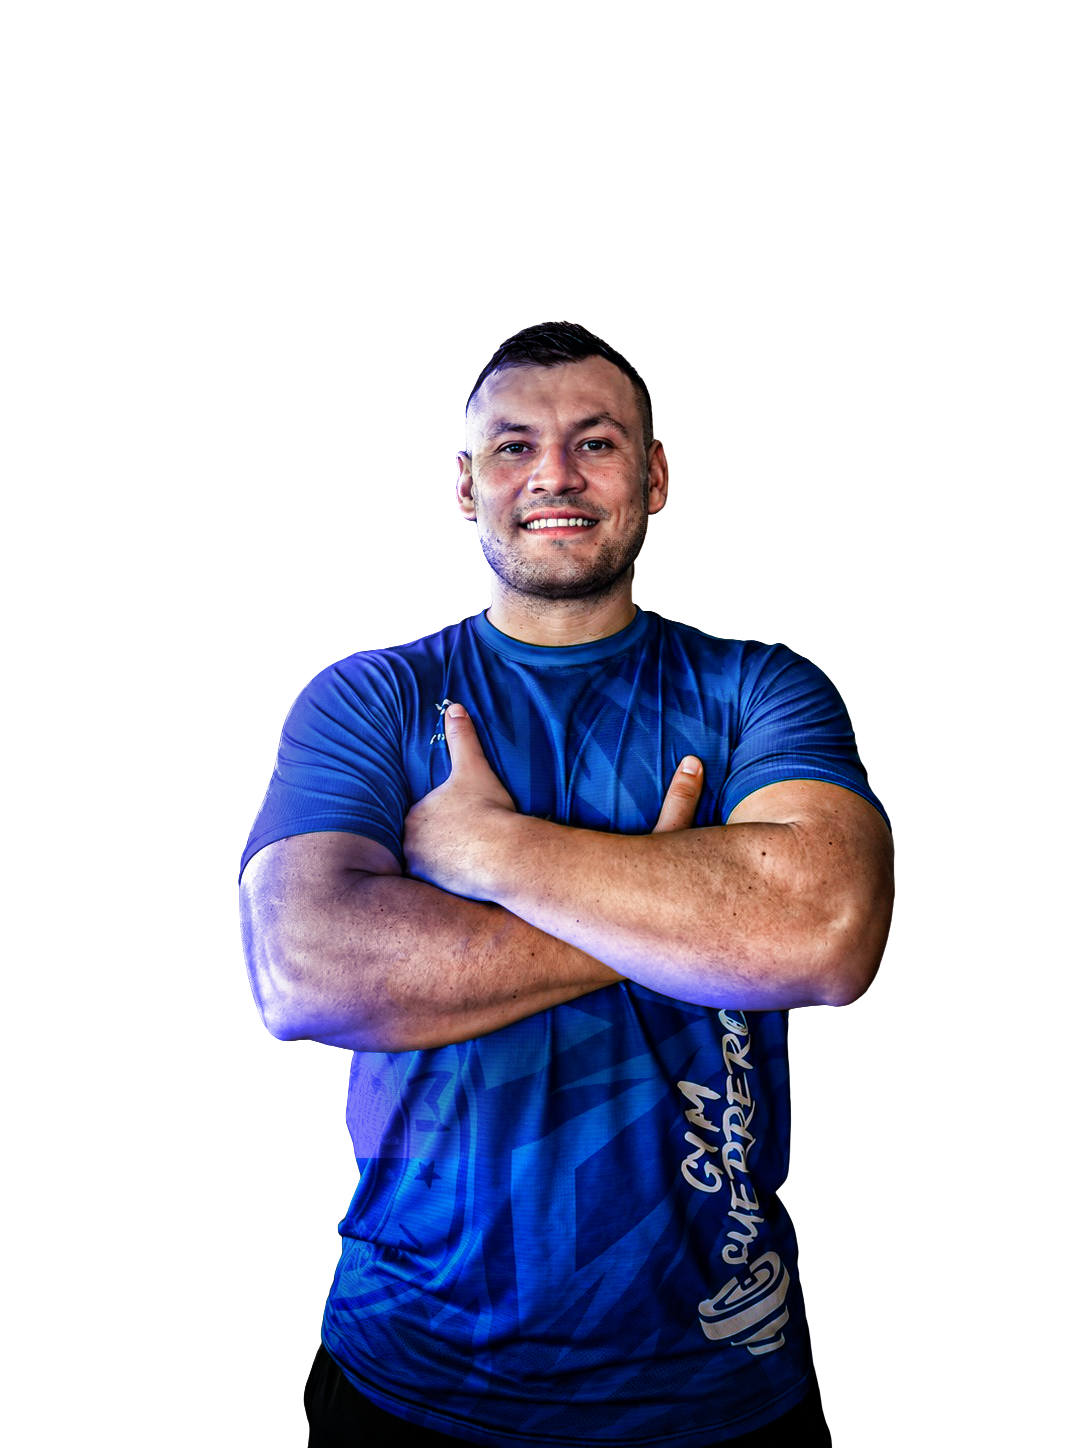
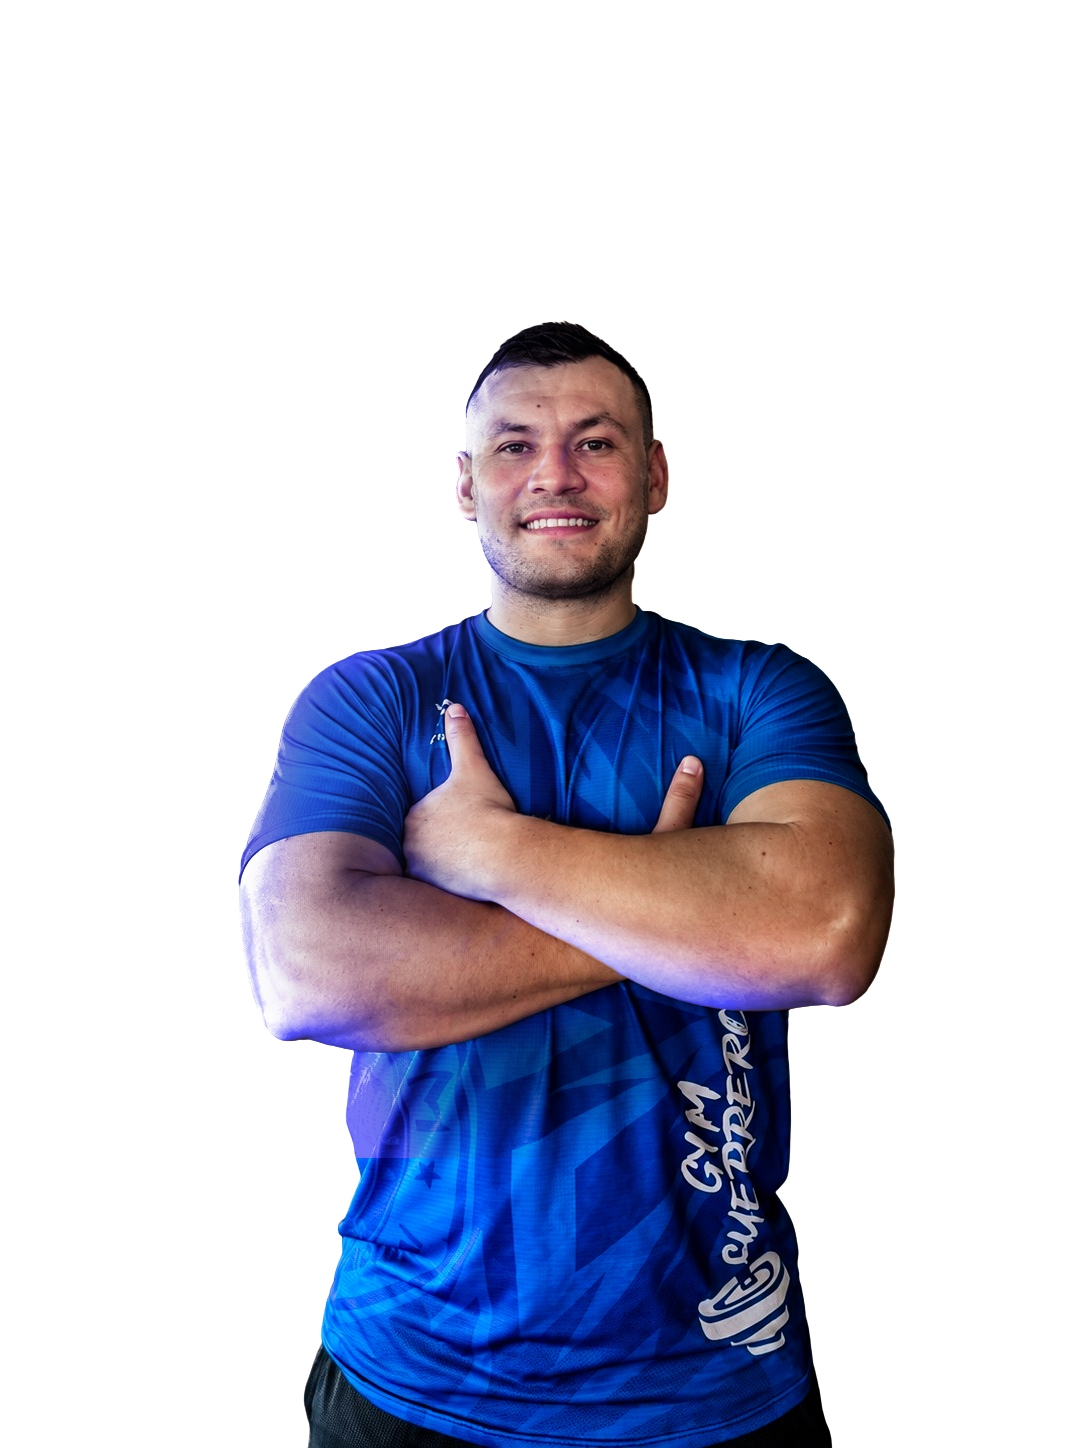
Fix Cesar pic

diff --git a/src/components/Hero.css b/src/components/Hero.css
@@ -1,4 +1,4 @@
-.hero-section {
+.hero-section {
   position: relative;
   min-height: 100vh;
   display: flex;
@@ -154,30 +154,31 @@
 
 .hero-image-placeholder {
   position: absolute;
-  bottom: -60px;
-  right: 15%; /* Alineado hacia la derecha */
-  width: 140%; /* Suficientemente grande para llenar el lado derecho */
+  bottom: -48px; /* Punto medio óptimo: lo mantiene más alto que el original (-60px) pero sin chocar con el header */
+  right: -2%; /* Alineación perfecta para dejar los textos de la izquierda completamente libres */
+  width: 148%; /* Reducido de 160% a 148%: más imponente que el original (140%) pero sin saturar el espacio */
   display: flex;
   justify-content: center;
   align-items: flex-end;
   pointer-events: none;
   z-index: 0;
+  transition: all 0.3s ease;
 }
 
 .hero-image {
-  max-height: 100vh;
+  max-height: 110vh; /* Permitimos mayor altura en pantallas altas */
   width: 100%;
   object-fit: cover;
   mix-blend-mode: lighten;
   mask-image:
-    linear-gradient(to top, transparent 2%, black 20%),
-    radial-gradient(circle at center, black 40%, transparent 70%);
+    linear-gradient(to top, transparent 2%, black 15%),
+    radial-gradient(circle at 50% 45%, black 50%, transparent 80%);
   -webkit-mask-image:
-    linear-gradient(to top, transparent 2%, black 20%),
-    radial-gradient(circle at center, black 40%, transparent 70%);
+    linear-gradient(to top, transparent 2%, black 15%),
+    radial-gradient(circle at 50% 45%, black 50%, transparent 80%);
   -webkit-mask-composite: source-in;
   mask-composite: intersect;
-  opacity: 0.9;
+  opacity: 0.95; /* Mayor opacidad para que resalte más en el fondo */
 }
 
 .features-card {
@@ -265,6 +266,30 @@
 }
 
 /* Responsive Design */
+@media (max-width: 1366px) {
+  .hero-title {
+    font-size: 3.8rem; /* Reducimos ligeramente el tamaño del título en laptops comunes para evitar superposición */
+  }
+
+  .hero-image-placeholder {
+    width: 140%; /* Hacemos el atleta un poco más compacto en pantallas medianas */
+    right: -4%; /* Lo mantenemos a una distancia prudente */
+    bottom: -50px;
+  }
+}
+
+@media (max-width: 1200px) {
+  .hero-title {
+    font-size: 3.4rem; /* Adaptamos el título para pantallas más estrechas */
+  }
+
+  .hero-image-placeholder {
+    width: 135%; /* Ajustamos proporcionalmente el atleta */
+    right: -5%;
+    bottom: -50px;
+  }
+}
+
 @media (max-width: 1024px) {
   .hero-section {
     padding: 0 2rem;
@@ -299,12 +324,12 @@
   .hero-image-placeholder {
     right: 50%;
     transform: translateX(50%);
-    width: 100%;
-    bottom: 0;
+    width: 115%; /* En tablet el atleta se ve un poco más grande y protagónico, recortado con degradado */
+    bottom: -20px;
   }
 
   .features-card {
-    display: none; /* Ocultamos la tarjeta en mÃ³vil para enfocar en el atleta */
+    display: none; /* Ocultamos la tarjeta en tablet/móvil para enfocar en el atleta */
   }
 }
 
@@ -314,8 +339,8 @@
   }
 
   .hero-title {
-    font-size: 3rem;
-    white-space: normal; /* Permitimos wrap en mÃ³vil */
+    font-size: 2.8rem; /* Tamaño de fuente ideal en móviles */
+    white-space: normal; /* Permitimos wrap en móvil */
   }
 
   .hero-buttons {
@@ -332,7 +357,18 @@
 
   .hero-bottom-bar {
     gap: 1rem;
-    justify-content: flex-start;
+    justify-content: center; /* Centrado en móviles para mejorar la simetría */
+  }
+
+  .hero-right-side {
+    min-height: 350px; /* Altura optimizada para móviles */
+  }
+
+  .hero-image-placeholder {
+    right: 50%;
+    transform: translateX(50%);
+    width: 130%; /* En móviles se ve imponente, expandiéndose un poco a los lados con degradado suave */
+    bottom: -15px;
   }
 }
 
